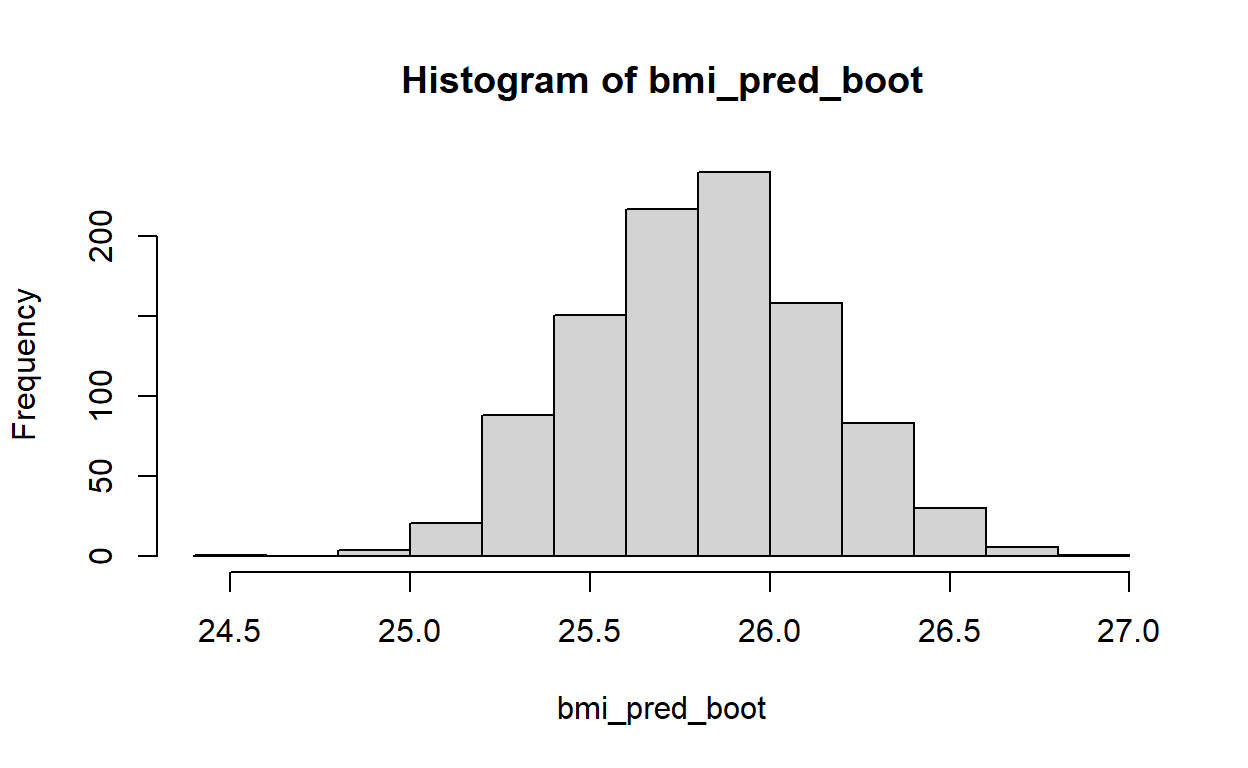
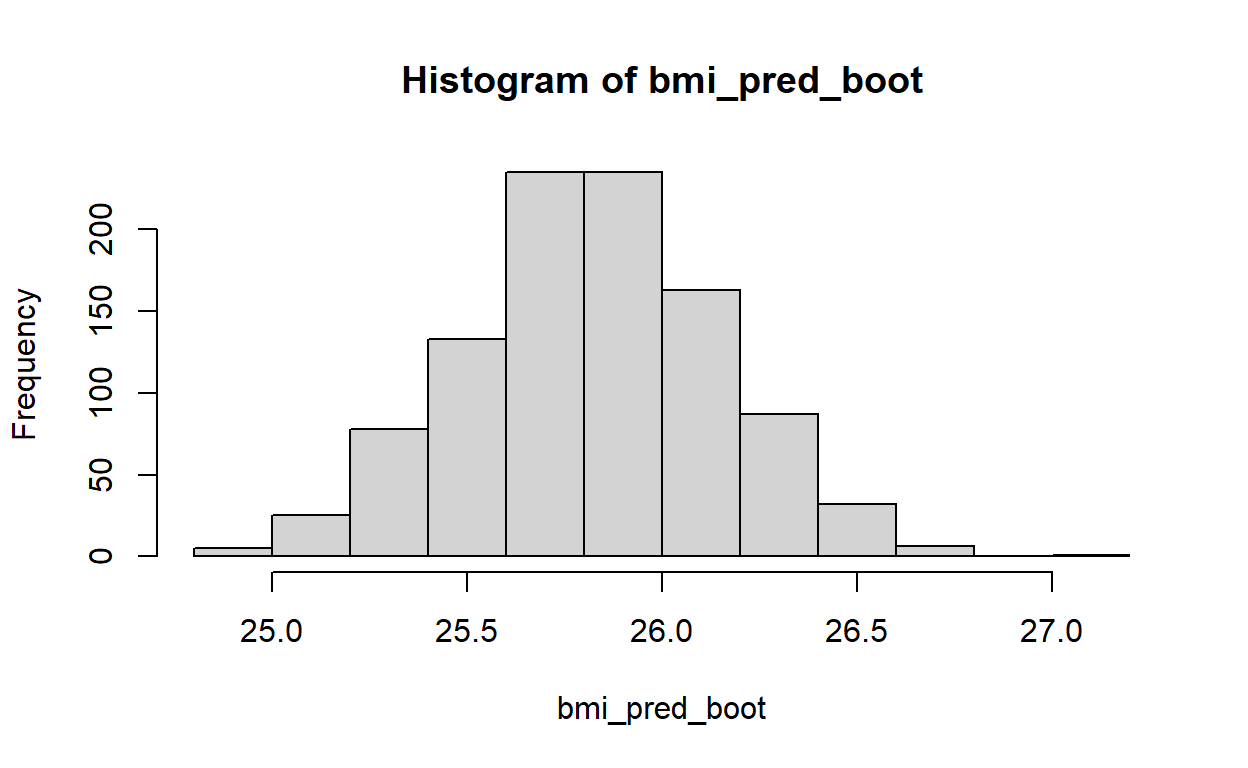
R Markdown Fix

diff --git a/docs/C6_solution.html b/docs/C6_solution.html
@@ -2549,7 +2549,7 @@ C7 - R Markdown
 <span><span class='fu'>bmi_pred_funct</span><span class='op'>(</span>data_input <span class='op'>=</span> <span class='va'>SSRC_data_bootstrap</span><span class='op'>)</span></span></code></pre>
 </div>
 <pre><code>       1 
-26.35236 </code></pre>
+26.16618 </code></pre>
 </div>
 <h3 id="task-20">Task 20</h3>
 <p>Use a for loop to repeat what you did in tasks 18/19 1000 times. Store the results in a vector called <em>bmi_pred_boot</em>. Check out the <em>bmi_pred_boot</em> vector.</p>
@@ -2571,7 +2571,7 @@ C7 - R Markdown
 <span><span class='co'># Check out the vector</span></span>
 <span><span class='fu'><a href='https://rdrr.io/r/utils/head.html'>head</a></span><span class='op'>(</span><span class='va'>bmi_pred_boot</span><span class='op'>)</span></span></code></pre>
 </div>
-<pre><code>[1] 25.75298 25.79968 25.59434 26.56667 26.31319 25.23284</code></pre>
+<pre><code>[1] 25.74453 26.07025 25.80905 25.78362 25.87261 25.23193</code></pre>
 </div>
 <h3 id="task-21">Task 21</h3>
 <p>Create a histogram to analyse the distribution of <em>bmi_pred_boot</em> vector. (Just use <em>hist()</em> from the base R package)</p>
@@ -2589,18 +2589,18 @@ C7 - R Markdown
 <pre class="sourceCode r"><code class="sourceCode r"><span><span class='co'># Calculate mean</span></span>
 <span><span class='fu'><a href='https://rdrr.io/r/base/mean.html'>mean</a></span><span class='op'>(</span><span class='va'>bmi_pred_boot</span><span class='op'>)</span></span></code></pre>
 </div>
-<pre><code>[1] 25.81137</code></pre>
+<pre><code>[1] 25.82008</code></pre>
 <div class="sourceCode">
 <pre class="sourceCode r"><code class="sourceCode r"><span><span class='co'># Calculate standard deviation</span></span>
 <span><span class='fu'><a href='https://rdrr.io/r/stats/sd.html'>sd</a></span><span class='op'>(</span><span class='va'>bmi_pred_boot</span><span class='op'>)</span></span></code></pre>
 </div>
-<pre><code>[1] 0.3310309</code></pre>
+<pre><code>[1] 0.3268541</code></pre>
 <div class="sourceCode">
 <pre class="sourceCode r"><code class="sourceCode r"><span><span class='co'># Calculate quantiles</span></span>
 <span><span class='fu'><a href='https://rdrr.io/r/stats/quantile.html'>quantile</a></span><span class='op'>(</span><span class='va'>bmi_pred_boot</span>, probs <span class='op'>=</span> <span class='fu'><a href='https://rdrr.io/r/base/c.html'>c</a></span><span class='op'>(</span><span class='fl'>0.025</span>, <span class='fl'>0.975</span><span class='op'>)</span><span class='op'>)</span></span></code></pre>
 </div>
 <pre><code>    2.5%    97.5% 
-25.19981 26.46304 </code></pre>
+25.16278 26.46098 </code></pre>
 </div>
 <div class="sourceCode" id="cb20"><pre class="sourceCode r distill-force-highlighting-css"><code class="sourceCode r"></code></pre></div>
 <!--radix_placeholder_article_footer-->

diff --git a/docs/C7_exercise.html b/docs/C7_exercise.html
@@ -2223,7 +2223,7 @@ C7 - R Markdown
 <h4 id="task-1">Task 1</h4>
 <p>Create an R project for solving this Exercise Sheet.</p>
 <h4 id="task-2">Task 2</h4>
-<p>Download the csv-file <a href="data/SSRC_data.csv">SSRC_data.csv</a> and the rmd-file <a href="templates/SSRC_C7_template.Rmd">SSRC_7_template.rmd</a> and put it in the R project folder you created in Task 1.</p>
+<p>Download the csv-file <a href="data/SSRC_data.csv">SSRC_data.csv</a> and the rmd-file <a href="https://github.com/PHPtum/PHP_teaching_material/blob/main/SSRC_Material/C7_material/SSRC_C7_template.Rmd">SSRC_7_template.rmd</a> and put it in the R project folder you created in Task 1.</p>
 <h4 id="task-3">Task 3</h4>
 <p>Open the <em>SSRC_C7_template.rmd</em> file.</p>
 <h4 id="task-4">Task 4</h4>

diff --git a/docs/C7_solution.html b/docs/C7_solution.html
@@ -2221,7 +2221,7 @@ C7 - R Markdown
 
 <div class="d-article">
 <p>To access the <strong>R Markown solution</strong>, please click here:
-<a href="C7_material/SSRC_C7_model_solution.Rmd">C7 - R Markdown Solution</a></p>
+<a href="https://github.com/PHPtum/PHP_teaching_material/blob/main/SSRC_Material/C7_material/SSRC_C7_model_solution.Rmd">C7 - R Markdown Solution</a></p>
 <div class="sourceCode" id="cb1"><pre class="sourceCode r distill-force-highlighting-css"><code class="sourceCode r"></code></pre></div>
 <!--radix_placeholder_article_footer-->
 <!--/radix_placeholder_article_footer-->
